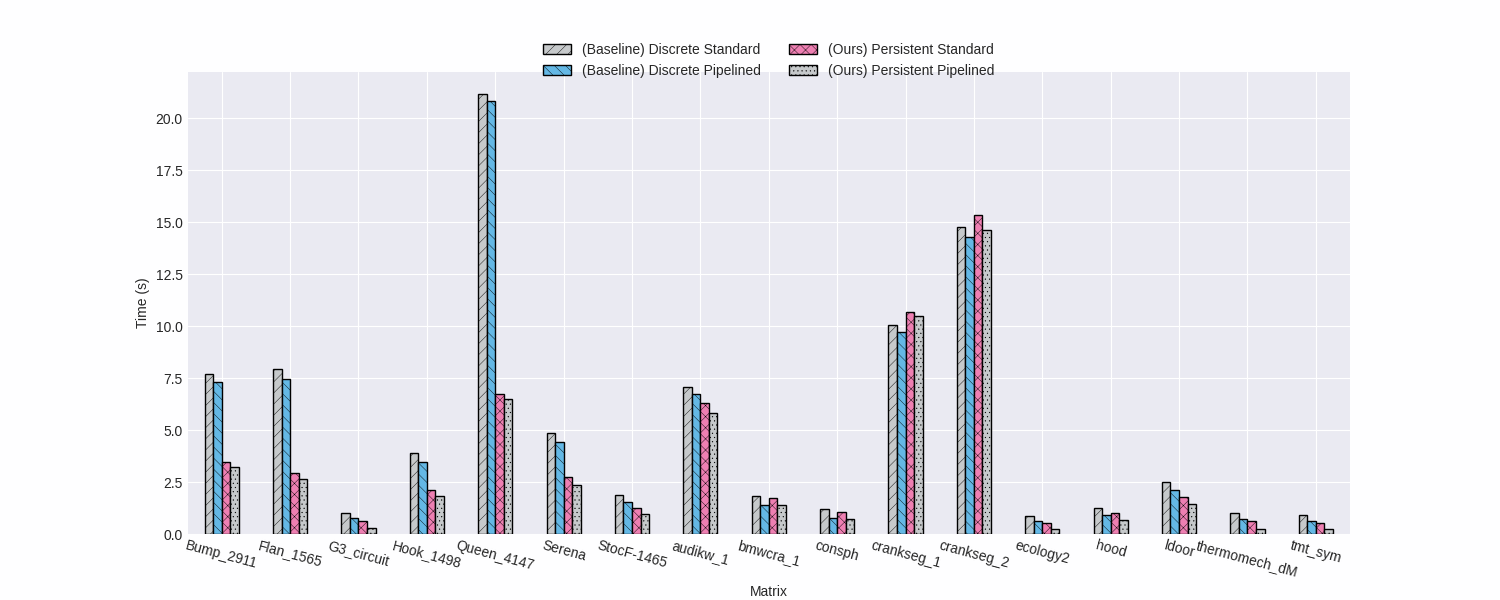
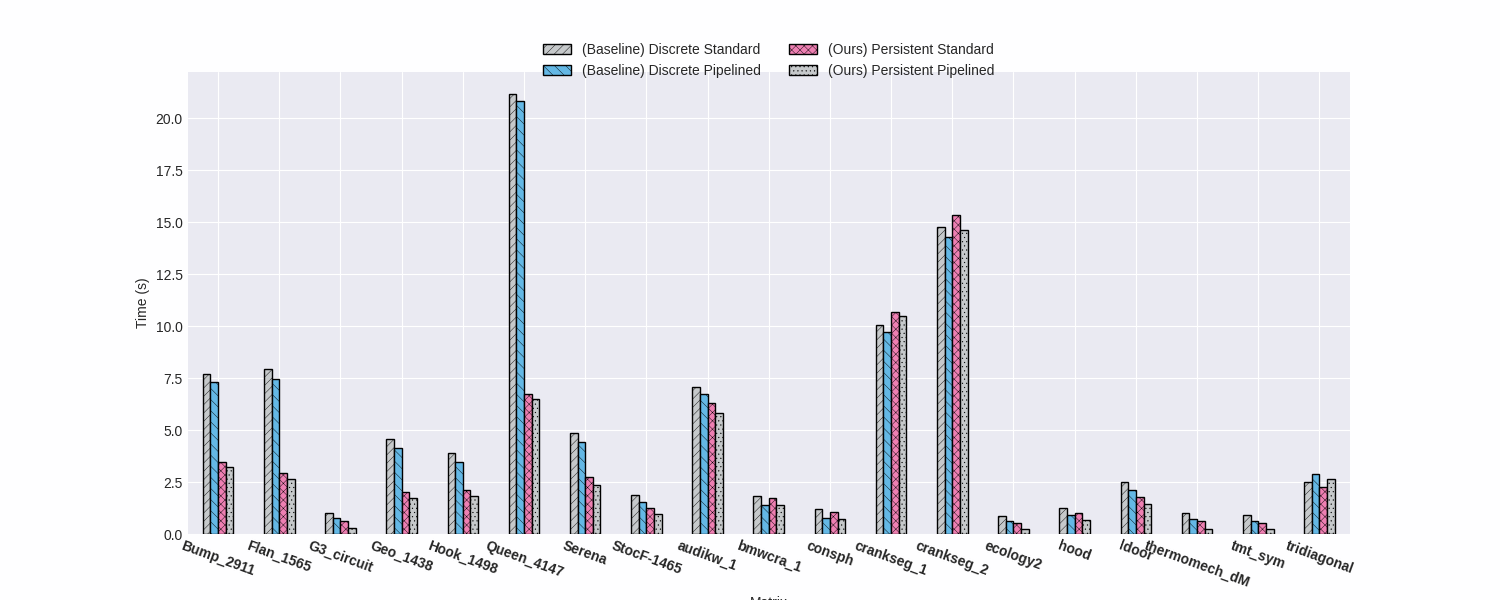
Change matrix name

Changed region(s): [[0.1227, 0.15, 0.92, 0.99], [0.4907, 0.96, 0.5213, 1.0], [0.5213, 0.06, 0.552, 0.09]]

diff --git a/CG/scripts/plots/plot_constant_num_gpus.py b/CG/scripts/plots/plot_constant_num_gpus.py
@@ -11,7 +11,7 @@ import matplotlib as mpl
 mpl.rcParams['hatch.linewidth'] = 0.3
 
 MATRIX_NAMES = [
-    # '(generated)_tridiagonal',
+    'tridiagonal',
     'ecology2',
     #   'shallow_water2', Too little non-zeros
     #   'Trefethen_2000', Too little non-zeros
@@ -29,7 +29,7 @@ MATRIX_NAMES = [
     'Flan_1565',
     'audikw_1',
     'Serena',
-    # 'Geo_1438',
+    'Geo_1438',
     'Hook_1498',
     #   'bone010', Multi-part matrix, don't handle those for now
     'ldoor'
@@ -80,13 +80,11 @@ for file in files:
         per_gpu_num_data = pd.DataFrame(
             per_gpu_num_data, columns=VERSIONS_TO_KEEP)
 
-        print(per_gpu_num_data)
-
         axes = per_gpu_num_data.plot.bar(
             colormap='Paired', color=colors, edgecolor='black', figsize=(15, 6))
 
         bars = axes.patches
-        patterns = ('///', '\\\\\\', 'xxx', '....')
+        patterns = ('////', '\\\\\\', 'xxxx', '....')
         hatches = [p for p in patterns for i in range(len(per_gpu_num_data))]
 
         for bar, hatch in zip(bars, hatches):
@@ -108,7 +106,7 @@ for file in files:
         # per_gpu_num_title = f'{title} ({matrix_name})'
         per_gpu_num_title = gpu_num_column_label
 
-        plt.xticks(rotation=-15, ha='center')
+        plt.xticks(rotation=-20, ha='center', weight='bold')
         # plt.suptitle(per_gpu_num_title)
         plt.savefig(MODULE_DIR / per_gpu_num_title)
 

diff --git a/CG/scripts/plots/plot_strong_scaling.py b/CG/scripts/plots/plot_strong_scaling.py
@@ -12,23 +12,23 @@ import pandas as pd
 import numpy as np
 
 MATRIX_NAMES = [
-    # '(generated)_tridiagonal',
+    'tridiagonal',
     'ecology2',
     #   'shallow_water2', Too little non-zeros
     #   'Trefethen_2000', Too little non-zeros
     'hood',
-    # 'bmwcra_1',
-    # 'consph',
-    # 'thermomech_dM',
-    # 'tmt_sym',
-    # 'crankseg_1',
-    # 'crankseg_2',
-    # 'Queen_4147',
-    # 'Bump_2911',
-    # 'G3_circuit',
-    # 'StocF-1465',
-    # 'Flan_1565',
-    # 'audikw_1',
+    'bmwcra_1',
+    'consph',
+    'thermomech_dM',
+    'tmt_sym',
+    'crankseg_1',
+    'crankseg_2',
+    'Queen_4147',
+    'Bump_2911',
+    'G3_circuit',
+    'StocF-1465',
+    'Flan_1565',
+    'audikw_1',
     'Serena',
     'Geo_1438',
     'Hook_1498',

diff --git a/CG/scripts/plots/plot_operation_breakdown.py b/CG/scripts/plots/plot_operation_breakdown.py
@@ -9,22 +9,22 @@ import pandas as pd
 import numpy as np
 
 MATRIX_NAMES = [
-    # '(generated)_tridiagonal',
+    'tridiagonal',
     'ecology2',
     #   'shallow_water2', Too little non-zeros
     #   'Trefethen_2000', Too little non-zeros
     'hood',
     'bmwcra_1',
-    # 'consph',
-    # 'thermomech_dM',
-    # 'tmt_sym',
-    # 'crankseg_1',
-    # 'crankseg_2',
-    # 'Queen_4147',
-    # 'Bump_2911',
-    # 'G3_circuit',
-    # 'StocF-1465',
-    # 'Flan_1565',
+    'consph',
+    'thermomech_dM',
+    'tmt_sym',
+    'crankseg_1',
+    'crankseg_2',
+    'Queen_4147',
+    'Bump_2911',
+    'G3_circuit',
+    'StocF-1465',
+    'Flan_1565',
     'audikw_1',
     'Serena',
     'Geo_1438',
